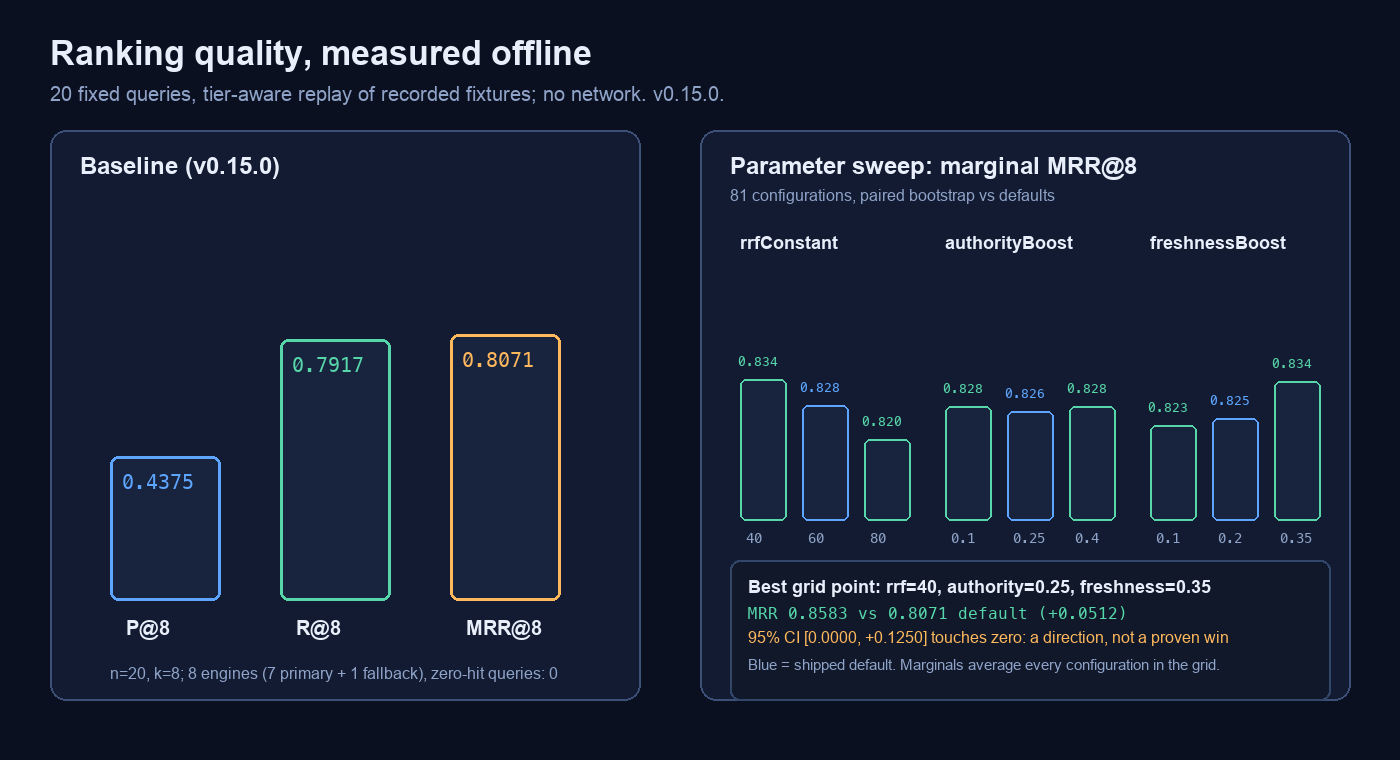
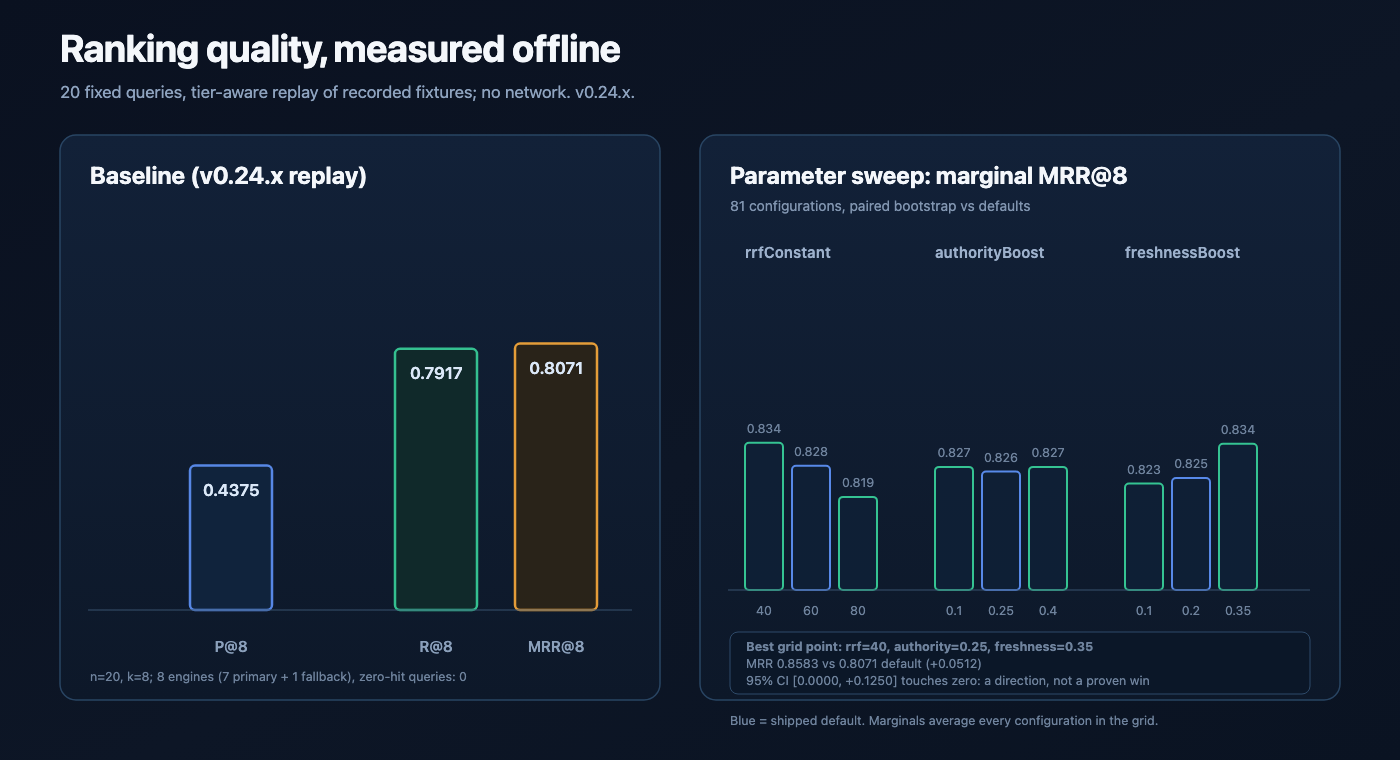
Refresh benchmark chart and baseline labels to 0.24.x

diff --git a/client.js b/client.js
@@ -74,7 +74,7 @@
           var ENTRY = 'web-search-bing';
           var PACKAGE_NAME = 'dsh-web-search-bing';
           /** Keep in step with package.json; compared with the npm registry. */
-          var VERSION = '0.24.1';
+          var VERSION = '0.24.2';
           /** Snapshot used while no configuration service is reachable. */
           var EMPTY_STATE = { status: 'unavailable', value: undefined, base: undefined, user: undefined, revision: undefined, writable: false };
 

diff --git a/README.md b/README.md
@@ -65,7 +65,7 @@ read is:
   common in the other plugins.
 - **Adoption and maturity:** bottom third of this sample. At the 2026-10-25
   snapshot the repository was four days old, had no stars and little
-  independent adoption; the current npm release is 0.24.1.
+  independent adoption; the current npm release is 0.24.2.
 - **Tool-surface economy:** now competitive. 0.20.x exposes one `web_tools`
   entry with eight actions, close to `dsh-web-search-pro`'s two tools with 20
   actions; the legacy eight-name surface remains opt-in for old prompts.
@@ -340,7 +340,7 @@ Each line is the plain version first, the technical note second. The technical n
 
 21. **Search quality has a repeatable benchmark.**
     Ranking changes are no longer judged by feel: a fixed set of 20 queries produces the same scores every time.
-    *Technical: `bench/` holds 20 queries (10 Chinese, 10 English), five in each of docs / release / package / news, each annotated with 1–3 expected domains. `node scripts/bench.mjs` replays recorded fixtures offline, never touches the network, and prints precision@8, recall@8, MRR@8 plus each engine's contribution; `--record` re-records live (1.5 s between queries) to refresh the fixtures; `--json` gives machine-readable output for version comparisons, and past results live in `bench/results/`. Baseline for 0.15.0 (tier-aware replay, so the recorded fallback engines only count when production would run them): P@8 `0.4375`, R@8 `0.7917`, MRR@8 `0.8071`; Chinese `0.4000 / 0.8167 / 0.7976`, English `0.4750 / 0.7667 / 0.8167`. A separate five-query long-Chinese diagnostic (`bench/queries-long.json`, recorded with `--queries ... --fixtures ...`) scores `0.4500 / 1.0000 / 0.7667`, with every query hitting an expected domain; it is kept separate so the 20-query baseline stays comparable. The controlled experiments and known gaps are in the appendix.*
+    *Technical: `bench/` holds 20 queries (10 Chinese, 10 English), five in each of docs / release / package / news, each annotated with 1–3 expected domains. `node scripts/bench.mjs` replays recorded fixtures offline, never touches the network, and prints precision@8, recall@8, MRR@8 plus each engine's contribution; `--record` re-records live (1.5 s between queries) to refresh the fixtures; `--json` gives machine-readable output for version comparisons, and past results live in `bench/results/`. Current baseline (re-run on the 0.24.x line; tier-aware replay, so the recorded fallback engines only count when production would run them): P@8 `0.4375`, R@8 `0.7917`, MRR@8 `0.8071`; Chinese `0.4000 / 0.8167 / 0.7976`, English `0.4750 / 0.7667 / 0.8167`. A separate five-query long-Chinese diagnostic (`bench/queries-long.json`, recorded with `--queries ... --fixtures ...`) scores `0.4500 / 1.0000 / 0.7667`, with every query hitting an expected domain; it is kept separate so the 20-query baseline stays comparable. The controlled experiments and known gaps are in the appendix.*
 
 22. **Research, in one call.**
     For "what do the official docs and two other sources actually say about X", `research` runs up to three searches, opens the leading pages through the same fetch ladder, and returns one evidence pack in which every excerpt sits under its URL. A page that will not load is reported by URL and reason instead of aborting the pack; bot challenges and login redirects are rejected rather than quoted as evidence.
@@ -792,7 +792,7 @@ No. `package.json` does not list Playwright, and the plugin never downloads or i
 
 ### How do you know search quality improved?
 
-From the fixed query set in `bench/`, not from intuition. There are 20 queries (10 Chinese, 10 English), five in each of docs / release / package / news, each annotated with 1–3 expected domains. `node scripts/bench.mjs` replays recorded fixtures offline and prints P@8 / R@8 / MRR@8. The 0.15.0 baseline (tier-aware replay) is **0.4375 / 0.7917 / 0.8071**; Chinese 0.4000 / 0.8167 / 0.7976, English 0.4750 / 0.7667 / 0.8167. Run it before and after a ranking change and the direction is a number. Twenty queries are not statistical significance; news recall is only 0.467 and the per-query table still prints every miss — the appendix says so.
+From the fixed query set in `bench/`, not from intuition. There are 20 queries (10 Chinese, 10 English), five in each of docs / release / package / news, each annotated with 1–3 expected domains. `node scripts/bench.mjs` replays recorded fixtures offline and prints P@8 / R@8 / MRR@8. The current 20-query baseline (tier-aware replay, protocol introduced in 0.15.0) is **0.4375 / 0.7917 / 0.8071**; Chinese 0.4000 / 0.8167 / 0.7976, English 0.4750 / 0.7667 / 0.8167. Run it before and after a ranking change and the direction is a number. Twenty queries are not statistical significance; news recall is only 0.467 and the per-query table still prints every miss — the appendix says so.
 
 ### Why do the results differ from what I get searching by hand?
 
@@ -1040,7 +1040,7 @@ Measured on `https://docs.python.org/3/library/asyncio-task.html`: starting at `
 
 Metrics: P@8 = matched rows in the top 8 ÷ 8 (fixed denominator; a short list is not excused); R@8 = distinct expected domains found in the top 8 ÷ all expected domains; MRR@8 = the mean reciprocal rank of the first match over 20 queries, with a miss scoring 0. Domain matching is one-way from subdomain to parent: `docs.python.org` matches expected `python.org`, but the reverse does not.
 
-**0.15.0 baseline** (tier-aware replay):
+**Current baseline** (v0.24.x replay; tier-aware protocol introduced in 0.15.0):
 
 | Scope | P@8 | R@8 | MRR@8 |
 | --- | --- | --- | --- |

diff --git a/CHANGELOG.md b/CHANGELOG.md
@@ -1,5 +1,25 @@
 # Changelog
 
+## 0.24.2
+
+Documentation and image patch; no runtime behavior changed.
+
+### Fixed
+- **The benchmark chart no longer claims to be v0.15.0.** `docs/images/bench.png`
+  was regenerated from the current offline replay and labelled v0.24.x. The
+  numbers are unchanged (P@8 0.4375, R@8 0.7917, MRR@8 0.8071) because the
+  ranking path did not change; the chart now says so without presenting an old
+  release as the current one.
+- **Baseline labels now say "current" everywhere.** README, Chinese README and
+  `docs/rrf-ranking.md` still explain that the tier-aware replay protocol was
+  introduced in 0.15.0, but no longer call the current baseline a "0.15.0
+  baseline".
+- **The chart has an editable source.** `docs/images/bench.svg` is checked in
+  next to the PNG. Both files are shipped in the npm package so the relative
+  image link in `docs/rrf-ranking.md` resolves there too.
+
+**Test suite: 690 tests across 56 files** (689 pass, 1 skipped).
+
 ## 0.24.1
 
 Documentation and metadata patch; no search or fetch behavior changed.

diff --git a/docs/latency-and-sources.md b/docs/latency-and-sources.md
@@ -6,7 +6,7 @@ This note answers three questions from the public 30-query comparison:
 2. Can the AnySearch tail and the Chinese Rust miss be fixed?
 3. Does the fix require a vector database or a different retrieval model?
 
-> **Version note (2026-11-02):** 0.24.0 added Windows system-proxy discovery, and 0.24.1 is a documentation/metadata patch. The search path is unchanged, so these 0.23.0 measurements still describe 0.24.x.
+> **Version note (2026-11-02):** 0.24.0 added Windows system-proxy discovery, and 0.24.1 and 0.24.2 are documentation/metadata patches. The search path is unchanged, so these 0.23.0 measurements still describe 0.24.x.
 
 The short answer: Exa is a different architecture, not a faster RRF loop. This
 plugin can borrow tail-tolerance and source-specific facts, but copying Exa's

diff --git a/docs/comparison.md b/docs/comparison.md
@@ -6,7 +6,7 @@ whether a provider answers at all, how long it takes, how many distinct domains
 it returns, and whether a page on a known official domain appears in the top 8.
 The failures are part of the result.
 
-> **Version note (2026-11-02):** 0.24.0 added Windows system-proxy discovery, and 0.24.1 is a documentation/metadata patch. Neither changes the search, ranking or source-adapter path measured below, so the 0.23.0 numbers remain the latest comparison.
+> **Version note (2026-11-02):** 0.24.0 added Windows system-proxy discovery, and 0.24.1 and 0.24.2 are documentation/metadata patches. These patches do not change the search, ranking or source-adapter path measured below, so the 0.23.0 numbers remain the latest comparison.
 
 ## Method
 

diff --git a/docs/rrf-ranking.md b/docs/rrf-ranking.md
@@ -77,7 +77,7 @@ comparable across commits; `--record` is the only mode that touches the network.
 
 ![Baseline and sweep](images/bench.png)
 
-Baseline (v0.15.0, 20 queries, k=8, tier-aware replay):
+Baseline (current v0.24.x replay, 20 queries, k=8; tier-aware protocol introduced in 0.15.0):
 
 | metric | overall | Chinese | English |
 |---|---:|---:|---:|
